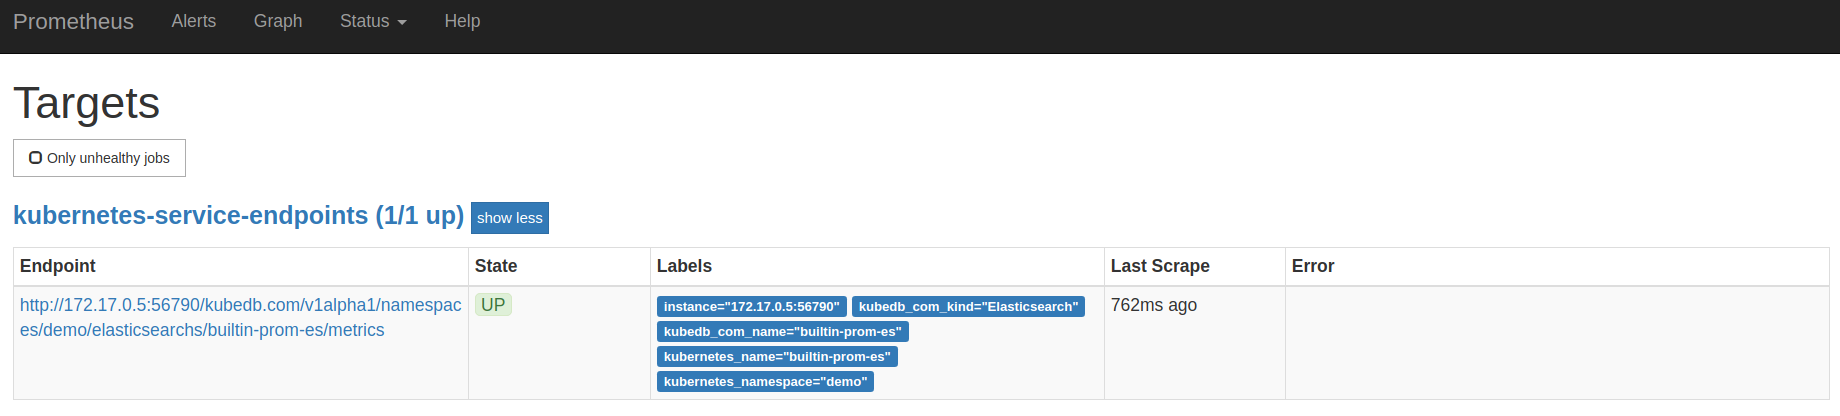
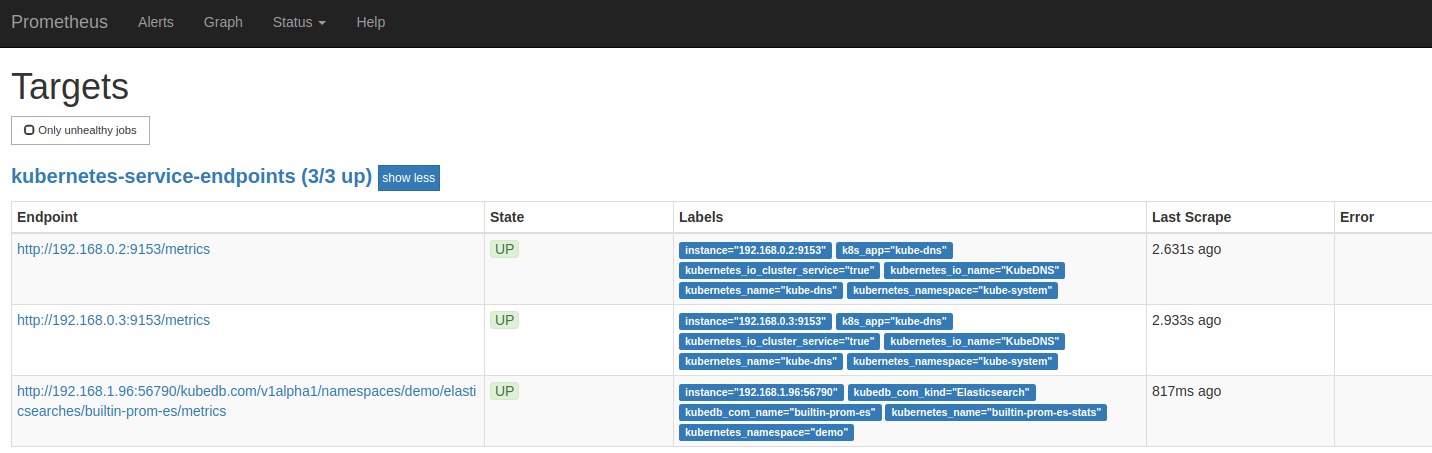
updated monitoring docs

diff --git a/docs/guides/elasticsearch/monitoring/using-builtin-prometheus.md b/docs/guides/elasticsearch/monitoring/using-builtin-prometheus.md
@@ -47,7 +47,7 @@ metadata:
   name: builtin-prom-es
   namespace: demo
 spec:
-  version: "5.6"
+  version: "6.3-v1"
   storage:
     storageClassName: "standard"
     accessModes:
@@ -66,32 +66,33 @@ Here,
 Run following command to create example above.
 
 ```console
-$ kubedb create -f https://raw.githubusercontent.com/kubedb/cli/0.9.0-beta.1/docs/examples/elasticsearch/monitoring/builtin-prom-es.yaml
-elasticsearch "builtin-prom-es" created
+$ kubectl create -f https://raw.githubusercontent.com/kubedb/cli/0.9.0-beta.1/docs/examples/elasticsearch/monitoring/builtin-prom-es.yaml
+elasticsearch.kubedb.com/builtin-prom-es created
 ```
 
 KubeDB operator will configure its service once the Elasticsearch is successfully running.
 
 ```console
-$ kubedb get es -n demo builtin-prom-es
-NAME              STATUS    AGE
-builtin-prom-es   Running   5m
+$ kubectl get es -n demo builtin-prom-es
+NAME              VERSION   STATUS     AGE
+builtin-prom-es   6.3-v1    Creating   45s
 ```
 
-You can verify it running the following commands:
+KubeDB will create a separate stats service with name `{Elasticsearch name}-stats` for monitoring purpose.
 
 ```console
 $ kubectl get svc -n demo --selector="kubedb.com/name=builtin-prom-es"
-NAME                     TYPE        CLUSTER-IP       EXTERNAL-IP   PORT(S)              AGE
-builtin-prom-es          ClusterIP   10.101.27.83     <none>        9200/TCP,56790/TCP   41s
-builtin-prom-es-master   ClusterIP   10.111.170.101   <none>        9300/TCP             41s
+NAME                     TYPE        CLUSTER-IP       EXTERNAL-IP   PORT(S)     AGE
+builtin-prom-es          ClusterIP   10.107.102.243   <none>        9200/TCP    1m
+builtin-prom-es-master   ClusterIP   10.105.170.11    <none>        9300/TCP    1m
+builtin-prom-es-stats    ClusterIP   10.100.55.134    <none>        56790/TCP   49s
 ```
 
-Lets describe Service `builtin-prom-es`
+Let's describe Service `builtin-prom-es-stats`
 
 ```console
-$ kubectl describe svc -n demo builtin-prom-es
-Name:              builtin-prom-es
+$ kubectl describe svc -n demo builtin-prom-es-stats
+Name:              builtin-prom-es-stats
 Namespace:         demo
 Labels:            kubedb.com/kind=Elasticsearch
                    kubedb.com/name=builtin-prom-es
@@ -99,16 +100,14 @@ Annotations:       monitoring.appscode.com/agent=prometheus.io/builtin
                    prometheus.io/path=/kubedb.com/v1alpha1/namespaces/demo/elasticsearches/builtin-prom-es/metrics
                    prometheus.io/port=56790
                    prometheus.io/scrape=true
-Selector:          kubedb.com/kind=Elasticsearch,kubedb.com/name=builtin-prom-es,node.role.client=set
+Selector:          kubedb.com/kind=Elasticsearch,kubedb.com/name=builtin-prom-es
 Type:              ClusterIP
-IP:                10.101.27.83
-Port:              http  9200/TCP
-TargetPort:        %!d(string=http)/TCP
-Endpoints:         172.17.0.8:9200
+IP:                10.100.55.134
 Port:              prom-http  56790/TCP
-TargetPort:        %!d(string=prom-http)/TCP
-Endpoints:         172.17.0.8:56790
+TargetPort:        prom-http/TCP
+Endpoints:         192.168.1.96:56790
 Session Affinity:  None
+Events:            <none>
 ```
 
 You can see that the service contains following annotations.
@@ -119,7 +118,7 @@ prometheus.io/port=56790
 prometheus.io/scrape=true
 ```
 
-The prometheus server will discover the service endpoint aka `Elasticsearch Exporter` using these specifications and will scrap metrics from exporter.
+The prometheus server will discover the service endpoint using these specifications and will scrap metrics from exporter.
 
 ## Deploy and configure Prometheus server
 
@@ -180,7 +179,7 @@ Create above ConfigMap
 
 ```console
 $ kubectl create -f https://raw.githubusercontent.com/kubedb/cli/0.9.0-beta.1/docs/examples/monitoring/builtin-prometheus/demo-1.yaml
-configmap "prometheus-server-conf" created
+configmap/prometheus-server-conf created
 ```
 
 Now, the below YAML is used to deploy Prometheus in kubernetes :
@@ -227,23 +226,22 @@ Run the following command to deploy prometheus-server
 
 ```console
 $ kubectl create -f https://raw.githubusercontent.com/kubedb/cli/0.9.0-beta.1/docs/examples/monitoring/builtin-prometheus/demo-2.yaml
-clusterrole "prometheus-server" created
-serviceaccount "prometheus-server" created
-clusterrolebinding "prometheus-server" created
-deployment "prometheus-server" created
-service "prometheus-service" created
+clusterrole.rbac.authorization.k8s.io/prometheus-server created
+serviceaccount/prometheus-server created
+clusterrolebinding.rbac.authorization.k8s.io/prometheus-server created
+deployment.apps/prometheus-server created
+service/prometheus-service created
 ```
 
-Watch the Deployment’s Pods.
+Wait for running Deployment’s Pods.
 
 ```console
-$ kubectl get pods -n demo --selector=app=prometheus-server --watch
-NAME                                 READY     STATUS              RESTARTS   AGE
-prometheus-server-6b8476d6c5-kx78z   0/1       ContainerCreating   0          1m
-prometheus-server-6b8476d6c5-kx78z   1/1       Running   0         1m
+$ kubectl get pods -n demo --selector=app=prometheus-server
+NAME                                READY     STATUS    RESTARTS   AGE
+prometheus-server-9d7b799fd-pqzls   1/1       Running   0          1m
 ```
 
-And also verify RBAC stuffs
+Also verify RBAC stuffs
 
 ```console
 $ kubectl get clusterrole prometheus-server -n demo
@@ -268,7 +266,9 @@ $ minikube service prometheus-service -n demo --url
 http://192.168.99.100:30901
 ```
 
-Now, if you go to the Prometheus Dashboard, you will see this database endpoint in target list.
+If you are not using minikube, browse prometheus dashboard using following address `http://{Node's ExternalIP}:{NodePort of prometheus-service}`.
+
+Now, if you go the Prometheus Dashboard, you should see that this database endpoint as one of the targets.
 
 <p align="center">
   <kbd>
@@ -281,11 +281,11 @@ Now, if you go to the Prometheus Dashboard, you will see this database endpoint 
 To cleanup the Kubernetes resources created by this tutorial, run following commands
 
 ```console
-$ kubectl patch -n demo es/builtin-prom-es -p '{"spec":{"doNotPause":false}}' --type="merge"
+$ kubectl patch -n demo es/builtin-prom-es -p '{"spec":{"terminationPolicy":"WipeOut"}}' --type="merge"
 $ kubectl delete -n demo es/builtin-prom-es
 
-$ kubectl patch -n demo drmn/builtin-prom-es -p '{"spec":{"wipeOut":true}}' --type="merge"
-$ kubectl delete -n demo drmn/builtin-prom-es
+$ kubectl delete -n demo deployment/prometheus-server
+$ kubectl delete -n demo svc/prometheus-service
 
 $ kubectl delete clusterrole prometheus-server
 $ kubectl delete clusterrolebindings  prometheus-server

diff --git a/docs/guides/elasticsearch/monitoring/using-coreos-prometheus-operator.md b/docs/guides/elasticsearch/monitoring/using-coreos-prometheus-operator.md
@@ -42,55 +42,62 @@ Run the following command to deploy CoreOS-Prometheus operator.
 
 ```console
 $ kubectl create -f https://raw.githubusercontent.com/kubedb/cli/0.9.0-beta.1/docs/examples/monitoring/coreos-operator/demo-0.yaml
-clusterrole "prometheus-operator" created
-serviceaccount "prometheus-operator" created
-clusterrolebinding "prometheus-operator" created
-deployment "prometheus-operator" created
+namespace/demo configured
+clusterrole.rbac.authorization.k8s.io/prometheus-operator created
+serviceaccount/prometheus-operator created
+clusterrolebinding.rbac.authorization.k8s.io/prometheus-operator created
+deployment.extensions/prometheus-operator created
 ```
 
-Watch the Deployment’s Pods.
+Wait for running the Deployment’s Pods.
 
 ```console
-$ kubectl get pods -n demo --selector=operator=prometheus --watch
+$ kubectl get pods -n demo --selector=operator=prometheus
 NAME                                   READY     STATUS    RESTARTS   AGE
-prometheus-operator-79cb9dcd4b-24khh   1/1       Running   0          46s
+prometheus-operator-857455484c-mbzsp   1/1       Running   0          57s
 ```
 
 This CoreOS-Prometheus operator will create some supported Custom Resource Definition (CRD).
 
 ```console
 $ kubectl get crd
-NAME                                    AGE
-alertmanagers.monitoring.coreos.com     3m
-prometheuses.monitoring.coreos.com      3m
-servicemonitors.monitoring.coreos.com   3m
+NAME                                          CREATED AT
+...
+alertmanagers.monitoring.coreos.com           2018-10-08T12:53:46Z
+prometheuses.monitoring.coreos.com            2018-10-08T12:53:46Z
+servicemonitors.monitoring.coreos.com         2018-10-08T12:53:47Z
+...
 ```
 
 Once the Prometheus CRDs are registered, run the following command to create a Prometheus.
 
 ```console
 $ kubectl create -f https://raw.githubusercontent.com/kubedb/cli/0.9.0-beta.1/docs/examples/monitoring/coreos-operator/demo-1.yaml
-clusterrole "prometheus" created
-serviceaccount "prometheus" created
-clusterrolebinding "prometheus" created
-prometheus "prometheus" created
-service "prometheus" created
+clusterrole.rbac.authorization.k8s.io/prometheus created
+serviceaccount/prometheus created
+clusterrolebinding.rbac.authorization.k8s.io/prometheus created
+prometheus.monitoring.coreos.com/prometheus created
+service/prometheus created
 ```
 
 Verify RBAC stuffs
 
 ```console
 $ kubectl get clusterroles
-NAME                  AGE
-prometheus            1m
-prometheus-operator   5m
+NAME                             AGE
+...
+prometheus                       28s
+prometheus-operator              10m
+...
 ```
 
 ```console
 $ kubectl get clusterrolebindings
 NAME                  AGE
-prometheus            1m
-prometheus-operator   5m
+...
+prometheus            2m
+prometheus-operator   11m
+...
 ```
 
 ### Prometheus Dashboard
@@ -103,6 +110,8 @@ Or you can get the URL of `prometheus` Service by running following command
 $ minikube service prometheus -n demo --url
 http://192.168.99.100:30900
 ```
+
+If you are not using minikube, browse prometheus dashboard using following address `http://{Node's ExternalIP}:{NodePort of prometheus-service}`.
 
 Now, if you go to the Prometheus Dashboard, you will see that target list is now empty.
 
@@ -117,7 +126,7 @@ metadata:
   name: coreos-prom-es
   namespace: demo
 spec:
-  version: "5.6"
+  version: "6.3-v1"
   storage:
     storageClassName: "standard"
     accessModes:
@@ -146,16 +155,16 @@ Here,
 Now create this Elasticsearch object with monitoring spec
 
 ```console
-$ kubedb create -f https://raw.githubusercontent.com/kubedb/cli/0.9.0-beta.1/docs/examples/elasticsearch/monitoring/coreos-prom-es.yaml
-elasticsearch "coreos-prom-es" created
+$ kubectl create -f https://raw.githubusercontent.com/kubedb/cli/0.9.0-beta.1/docs/examples/elasticsearch/monitoring/coreos-prom-es.yaml
+elasticsearch.kubedb.com/coreos-prom-es created
 ```
 
 KubeDB operator will create a ServiceMonitor object once the Elasticsearch is successfully running.
 
 ```console
-$ kubedb get es -n demo builtin-prom-es
-NAME              STATUS    AGE
-builtin-prom-es   Running   5m
+$ kubectl get es -n demo coreos-prom-es
+NAME             VERSION   STATUS    AGE
+coreos-prom-es   6.3-v1    Running   1m
 ```
 
 You can verify it running the following commands
@@ -179,11 +188,13 @@ Now, if you go the Prometheus Dashboard, you will see this database endpoint in 
 To cleanup the Kubernetes resources created by this tutorial, run following commands
 
 ```console
-$ kubectl patch -n demo es/coreos-prom-es -p '{"spec":{"doNotPause":false}}' --type="merge"
+$ kubectl patch -n demo es/coreos-prom-es -p '{"spec":{"terminationPolicy":"WipeOut"}}' --type="merge"
 $ kubectl delete -n demo es/coreos-prom-es
 
-$ kubectl patch -n demo drmn/coreos-prom-es -p '{"spec":{"wipeOut":true}}' --type="merge"
-$ kubectl delete -n demo drmn/coreos-prom-es
+$ kubectl delete -n demo deployment/prometheus-operator
+$ kubectl delete -n demo service/prometheus
+$ kubectl delete -n demo service/prometheus-operated
+$ kubectl delete -n demo statefulset.apps/prometheus-prometheus
 
 $ kubectl delete clusterrolebindings prometheus-operator  prometheus
 $ kubectl delete clusterrole prometheus-operator prometheus
